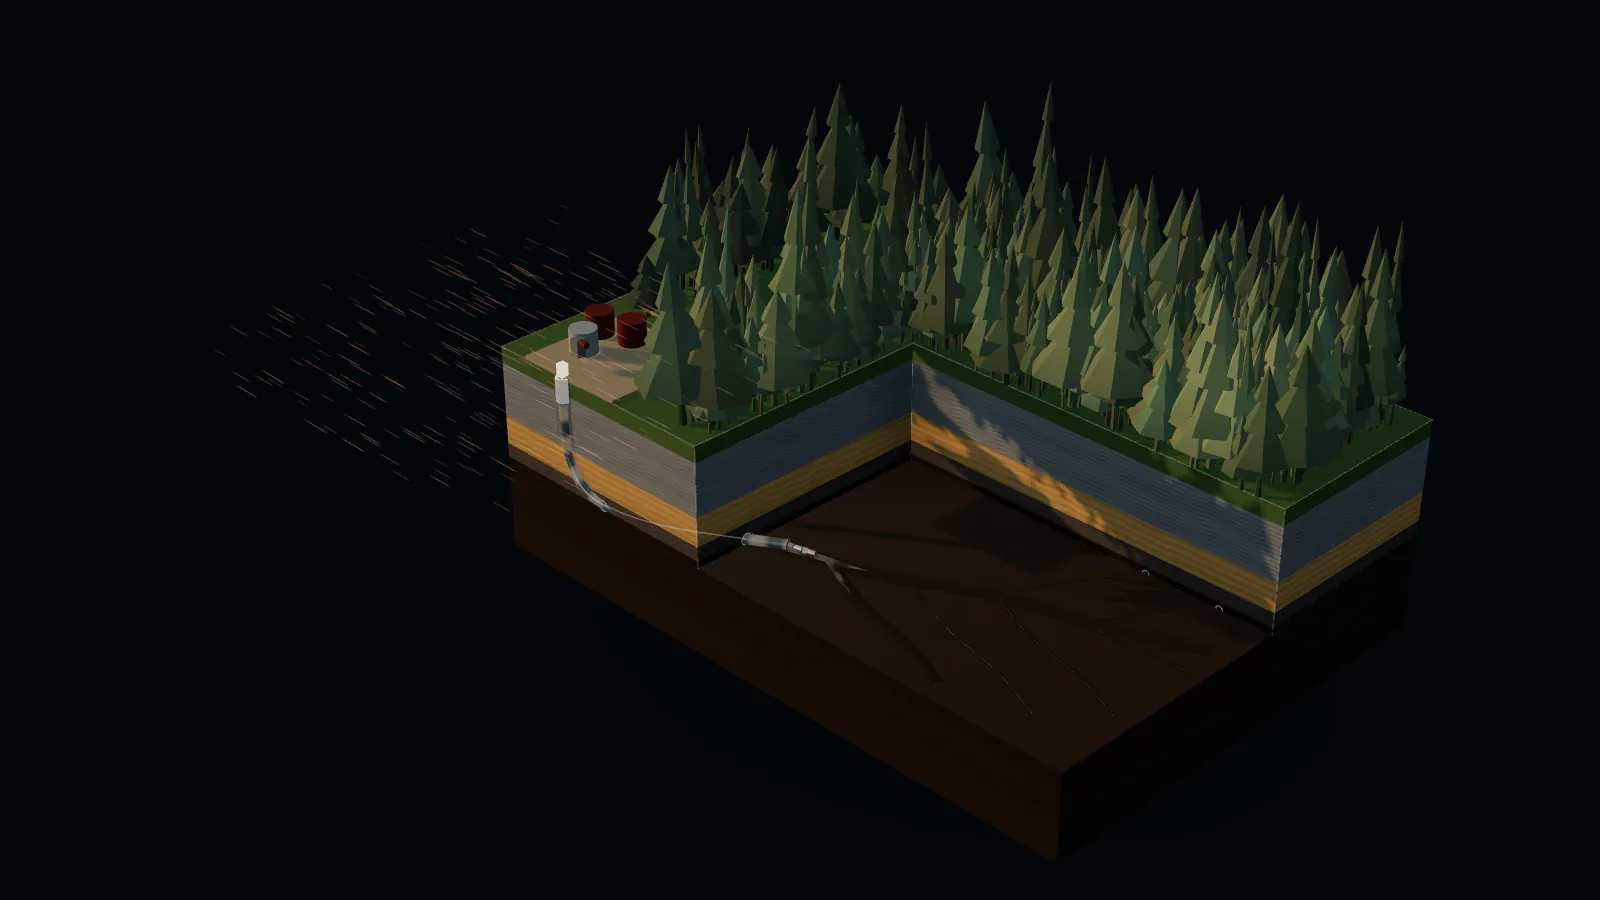
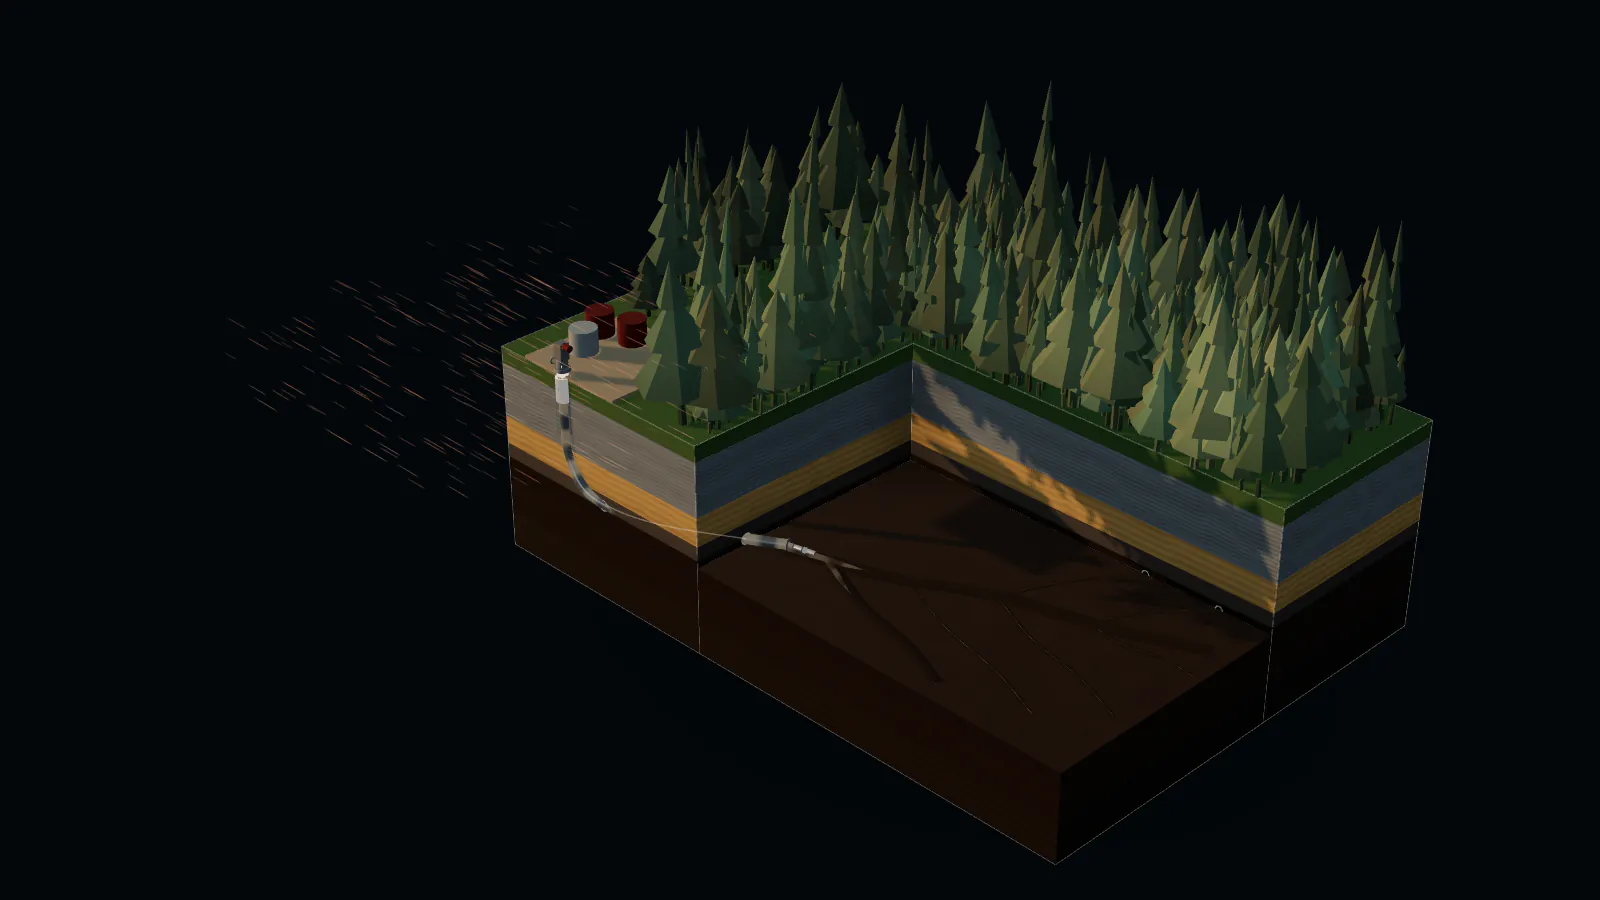
fix(world): round-8 — the field's fourth plane carries the return up the casing (a line-source term, tuned to a tight sheath), the slab's own silhouette gets its sand cut-edge, the wellhead is a wellhead (drive head seated on it, flange/bonnet/wing/handwheel merged into one mesh) and no longer out-l

diff --git a/src/world/props.js b/src/world/props.js
@@ -1,6 +1,7 @@
 // Ports of SignalRelay.tsx and LeasePad.tsx.
 import * as THREE from 'three';
 import { COLORS, PAD_RECT, ROAD_RECT } from './layout.js';
+import { mergeIndexed } from './forest.js';
 
 export function buildSignalRelay(wellhead) {
   const base = new THREE.Color(COLORS.emGlow);
@@ -36,14 +37,25 @@ export function buildLeasePad() {
   road.position.set(roadCx, 0.025, ROAD_RECT.minZ + roadLen / 2); road.name = 'lease-road';
   group.add(pad, road);
 
+  // The drive head sits ON the wellhead — it drives the rod string through it. It used to stand 0.4 units in
+  // front, so the surface end of the well read as an unfinished stub with a box beside it (round 8).
   const drive = new THREE.Group();
   drive.name = 'pcp-drive-head';
-  drive.position.set(-5.2, 0, 4.6);
-  const driveBox = new THREE.Mesh(new THREE.BoxGeometry(0.2, 0.34, 0.2), steel);
-  driveBox.position.y = 0.5;
+  drive.position.set(-5.2, 0, 5.0);
+  // All the static steel merges into ONE mesh — a wellhead is five small parts and five draw calls is a bad trade.
+  const stackGeoms = [];
+  const push = (g, tf) => { tf(g); stackGeoms.push(g); };
+  push(new THREE.CylinderGeometry(0.15, 0.17, 0.06, 12), (g) => g.translate(0, 0.2, 0));           // flange
+  push(new THREE.CylinderGeometry(0.1, 0.13, 0.16, 12), (g) => g.translate(0, 0.31, 0));           // bonnet
+  push(new THREE.BoxGeometry(0.2, 0.34, 0.2), (g) => g.translate(0, 0.56, 0));                      // drive housing
+  push(new THREE.CylinderGeometry(0.035, 0.035, 0.26, 8), (g) => { g.rotateZ(Math.PI / 2); g.translate(-0.13, 0.26, 0); }); // wing valve
+  push(new THREE.TorusGeometry(0.05, 0.014, 6, 14), (g) => { g.rotateY(Math.PI / 2); g.translate(-0.27, 0.26, 0); });        // handwheel
+  const stack = new THREE.Mesh(mergeIndexed(stackGeoms), steel);
+  stack.name = 'wellhead-stack';
+  stackGeoms.forEach((g) => g.dispose());
   const motor = new THREE.Mesh(new THREE.CylinderGeometry(0.07, 0.07, 0.18, 10), new THREE.MeshStandardMaterial({ color: '#6d281d', roughness: 0.6, metalness: 0.3 }));
-  motor.position.set(0.16, 0.62, 0); motor.rotation.z = Math.PI / 2;
-  drive.add(driveBox, motor);
+  motor.position.set(0.16, 0.68, 0); motor.rotation.z = Math.PI / 2; motor.name = 'drive-motor';
+  drive.add(stack, motor);
   group.add(drive);
 
   const tanks = new THREE.Group();
@@ -61,5 +73,5 @@ export function buildLeasePad() {
   flare.position.set(-3.95, 0.48, 2.8); flare.name = 'flare-stack';
   group.add(separator, flare);
 
-  return { group, drive, tanks, separator, flare };
+  return { group, drive, motor, tanks, separator, flare };
 }

diff --git a/src/world/field.js b/src/world/field.js
@@ -18,15 +18,35 @@ function mulberry32(seed) {
   return () => { seed |= 0; seed = (seed + 0x6d2b79f5) | 0; let t = Math.imul(seed ^ (seed >>> 15), 1 | seed); t = (t + Math.imul(t ^ (t >>> 7), 61 | t)) ^ t; return ((t ^ (t >>> 14)) >>> 0) / 4294967296; };
 }
 
+// The circuit has two halves and the picture has to show both (spec §3): the emitter's quasi-static field around
+// the collar, AND the return travelling up the cased string to surface. A single radial falloff from the collar
+// culled the whole outer front face, so the chapter read as a glow bursting into rock with nothing tying it to
+// the wellhead (round 8). `returnPts` is the cased string sampled from heel to surface; the return term is a line
+// source around it that thins as it climbs, because the formation takes its cut on the way up.
+let RETURN_PTS = null;
+function returnTerm(p) {
+  if (!RETURN_PTS) return 0;
+  let best = Infinity, bestT = 0;
+  for (let i = 0; i < RETURN_PTS.length; i++) {
+    const q = RETURN_PTS[i];
+    const d = Math.hypot(p.x - q.x, (p.y - q.y) * 0.8, (p.z - q.z) * 1.4);
+    if (d < best) { best = d; bestT = i / (RETURN_PTS.length - 1); }
+  }
+  // bestT: 0 at the wellhead, 1 at the heel. Strongest where the current enters the casing, thinning to surface.
+  const climb = 0.35 + 0.65 * bestT;
+  return Math.pow(best + 0.22, -2.4) * 0.055 * climb; // a tight sheath ON the casing, not a wash across the face
+}
+
 // Anisotropic potential used on the CPU (for placement/orientation) — mirrored in the vertex shader.
 function potentialAt(p, collar) {
   const dx = p.x - collar.x, dy = (p.y - collar.y) * 0.55, dz = (p.z - collar.z) * 1.15;
   const r = Math.hypot(dx, dy, dz) + 0.3;
   const aboveSeal = THREE.MathUtils.smoothstep(p.y, SEAL.bottomY, SEAL.topY);
-  return Math.pow(r, -1.6) * 1.15 * (1 - 0.65 * aboveSeal);
+  return Math.pow(r, -1.6) * 1.15 * (1 - 0.65 * aboveSeal) + returnTerm(p) * (1 - 0.5 * aboveSeal);
 }
 
-export function buildField({ collar, tier = 'high', color = '#22D3EE' } = {}) {
+export function buildField({ collar, tier = 'high', color = '#22D3EE', returnPath = null } = {}) {
+  RETURN_PTS = returnPath && returnPath.length ? returnPath : null;
   const dense = tier !== 'low';
   const spacing = dense ? 0.16 : 0.32;
   const strokeLen = dense ? 0.15 : 0.24;

diff --git a/src/styles/world.css b/src/styles/world.css
@@ -96,7 +96,10 @@ html.world-on .company-section { background: transparent; padding-top: 0; }
 html.world-on .rise-band { display: block; position: sticky; top: var(--header-h, 64px); height: 60vh; pointer-events: none; } /* spec §4 row 5: 60 vh rise (round 2) */
 html.world-on .rise-caption { position: absolute; left: 0; right: 0; bottom: clamp(72px, 12vh, 120px); margin: 0; padding: 0 clamp(22px, 4vw, 60px); font: 600 clamp(18px, 2.2vw, 28px)/1.2 var(--font-display, "Archivo", sans-serif); color: var(--sand); letter-spacing: -0.01em; text-shadow: 0 2px 18px rgba(3, 7, 11, 0.7); }
 html.world-on .rise-caption span:last-child { color: var(--ember); }
-html.world-on .rise-caption span { background: rgba(3, 7, 11, 0.78); padding: 3px 10px; border-radius: 4px; -webkit-box-decoration-break: clone; box-decoration-break: clone; } /* ≥ 4.5:1 for the ember half over the lit slab face (round 5) */
+/* One quiet ground under the whole line, not a black plate plus an ember plate — two solid highlighter blocks
+   read as the most dated element on the site (round 8). The line keeps ≥ 4.5:1 over the lit slab. */
+html.world-on .rise-caption { background: linear-gradient(to right, rgba(3, 7, 11, 0.82) 0, rgba(3, 7, 11, 0.78) 62%, rgba(3, 7, 11, 0) 100%); padding: 10px clamp(22px, 4vw, 60px) 12px; }
+html.world-on .rise-caption span { background: none; padding: 0; }
 html.world-on .company-section .company-grid { background: var(--paper); border-radius: 10px 10px 0 0; padding-top: clamp(40px, 5vw, 64px); padding-bottom: clamp(40px, 5vw, 64px); position: relative; z-index: 1; }
 @media (max-height: 560px) { html.world-on .rise-band { height: 40vh; } }
 

diff --git a/src/world/terrain.js b/src/world/terrain.js
@@ -124,9 +124,17 @@ function makeCutEdges() {
   seg([nx, yb, sz], [nx, yb, nz]); seg([nx, yb, nz], [sx, yb, nz]);
   // outer top edges of the slab
   seg([smx, y0, sz], [nx, y0, sz]); seg([smx, y0, smz], [sx, y0, smz]); seg([smx, y0, sz], [smx, y0, smz]); seg([sx, y0, smz], [sx, y0, nz]);
+  // The slab's own silhouette is a cut boundary too, and it was the only one left undressed: against the black
+  // void it read as a raw polygon edge stepping from L 7 to L 52 in one pixel (round 8). Vertical corners…
+  const yb2 = SLAB.baseY;
+  seg([smx, y0, sz], [smx, yb2, sz]); seg([smx, y0, smz], [smx, yb2, smz]);
+  seg([sx, y0, smz], [sx, yb2, smz]); seg([sx, yb, nz], [sx, yb2, nz]); seg([nx, yb, sz], [nx, yb2, sz]);
+  // …and the base outline.
+  seg([smx, yb2, sz], [nx, yb2, sz]); seg([nx, yb2, sz], [sx, yb2, sz]); seg([sx, yb2, sz], [sx, yb2, smz]);
+  seg([sx, yb2, smz], [smx, yb2, smz]); seg([smx, yb2, smz], [smx, yb2, sz]);
   const geom = new THREE.BufferGeometry();
   geom.setAttribute('position', new THREE.Float32BufferAttribute(pts, 3));
-  const mat = new THREE.LineBasicMaterial({ color: '#e8dcc8', transparent: true, opacity: 0.35, depthWrite: false });
+  const mat = new THREE.LineBasicMaterial({ color: '#e8dcc8', transparent: true, opacity: 0.42, depthWrite: false });
   const lines = new THREE.LineSegments(geom, mat);
   lines.name = 'cut-edges';
   lines.renderOrder = 5;

diff --git a/src/world/toolViz.js b/src/world/toolViz.js
@@ -334,7 +334,7 @@ export function createToolViz(world) {
     levelTick.visible = chapterActive.deployment && levelShown; earlierTick.visible = chapterActive.deployment && levelShown && earlier != null;
     pumpMat.emissiveIntensity = 0.12 + THREE.MathUtils.smoothstep(drawdown, 0.55, 1) * 0.9; // a readable body before pump-off
     // drive head keeps turning at one constant rate (chapter 4)
-    if (chapterActive.deployment && !world.paused && island.pad && island.pad.drive && island.pad.drive.children[1]) island.pad.drive.children[1].rotateY(dt * 1.6);
+    if (chapterActive.deployment && !world.paused && island.pad && island.pad.motor) island.pad.motor.rotateY(dt * 1.6);
     if (casedGhost) {
       const d = camera.getWorldPosition(_ghostA).distanceTo(tool.group.getWorldPosition(_ghostB));
       casedGhost.material.opacity = orbit.active ? 0 : 0.38 * THREE.MathUtils.smoothstep(d, 4.5, 9);

diff --git a/src/world/island.js b/src/world/island.js
@@ -41,7 +41,9 @@ export function buildIsland({ tier = 'high', view = DEFAULT_WELLFI_VIEW } = {}) 
   const tool = buildWellFiTool(placement, { glowColor: COLORS.emGlow });
   const relay = buildSignalRelay(paths.wellhead);
   const pad = buildLeasePad();
-  const field = buildField({ collar: tool.group.position, tier });
+  // the cased string, heel → surface, so the field can show the return current climbing it (spec §3, plane D)
+  const returnPath = Array.from({ length: 26 }, (_, i) => paths.cased.getPointAt(1 - i / 25));
+  const field = buildField({ collar: tool.group.position, tier, returnPath });
   const wind = buildWind({ tier });
 
   parallax.add(terrain.group, forest.group, well.group, tool.group, relay.mesh, pad.group, field.mesh, wind.mesh);

diff --git a/src/world/wellSystem.js b/src/world/wellSystem.js
@@ -15,7 +15,7 @@ export function buildWellSystem(paths, mats) {
   const collarCurve = new THREE.CatmullRomCurve3([paths.cased.getPointAt(0), paths.cased.getPointAt(0.09), paths.cased.getPointAt(0.18)], false, 'catmullrom', 0.5);
   const surfaceCollar = new THREE.Mesh(
     new THREE.TubeGeometry(collarCurve, 12, RADII.surfaceCollar, 16, false),
-    new THREE.MeshStandardMaterial({ color: '#7d8a94', roughness: 0.42, metalness: 0.75, transparent: true, opacity: 0.35, depthWrite: false }),
+    new THREE.MeshStandardMaterial({ color: '#5d666d', roughness: 0.7, metalness: 0.45, transparent: true, opacity: 0.32, depthWrite: false }),
   );
   surfaceCollar.name = 'surface-casing';
   group.add(surfaceCollar);
